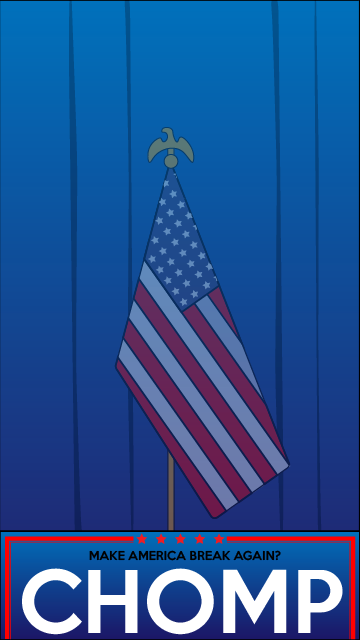
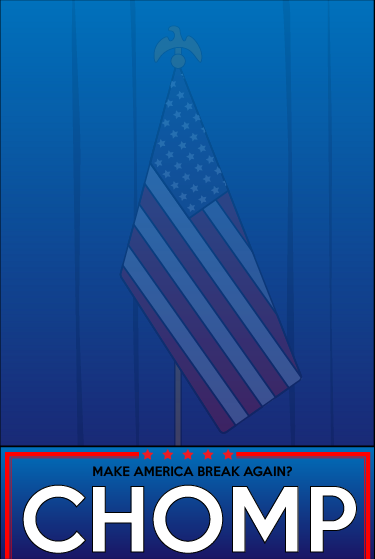
adding new dimensions to game

diff --git a/style.css b/style.css
@@ -6,7 +6,7 @@ html, body {
 .start-button {
   position: relative;
   left: 50%;
-  top: 80%;
+  top: 30em;
   transform: translateX(-50%);
   cursor: pointer;
   z-index: 3;
@@ -15,7 +15,7 @@ html, body {
 .score {
   position: absolute;
   font-family: monospace;
-  top: 65%;
+  top: 9em;
   left: 65%;
   z-index: 2;
   font-size: 3.5em;
@@ -74,8 +74,8 @@ html, body {
   position: absolute;
   left: 0;
   top: 0;
-  width: auto;
-  height: 100%;
+  width: 100%;
+  height: auto;
 }
 
 .back-canvas, .end-canvas {
@@ -84,34 +84,34 @@ html, body {
 
 @media screen and (min-width: 414px) {
   .score {
-    margin-left: 15%;
+    margin-left: 10%;
   }
 }
 
 @media screen and (max-width: 413px) {
   .start-button{
-    top: 80%;
+    top: 28em;
   }
   .score {
-    margin-left: 15%;
+    margin-left: 10%;
     top: 65%;
   }
 }
 @media screen and (max-width: 378px) {
   .score {
-    top: 65%;
+    top: 55%;
   }
 }
 @media screen and (max-width: 361px) {
   .score {
-    top: 65%;
+    top: 55%;
   }
 }
 @media screen and (max-width: 321px) {
   .start-button{
-    top: 70%;
+    top: 24em;
   }
   .score {
-    top: 65%;
+    top: 55%;
   }
 }

diff --git a/index.html b/index.html
@@ -13,10 +13,10 @@
         <div class='test'>
           <img id='start-button' class='start-button' src='assets/StartButton.png' onclick="start()" />
           <div id='score' class='score'></div>
-          <canvas id='start-canvas' class='start-canvas canvae' width='360' height='640'></canvas>
-          <canvas id='end-canvas' class='end-canvas canvae' width='360' height='640'></canvas>
-          <canvas id='back-canvas' class='back-canvas canvae' width='360' height='640'></canvas>
-          <canvas id='canvas' class='canvas canvae' width='360' height='640'></canvas>
+          <canvas id='start-canvas' class='start-canvas canvae' width='375' height='559'></canvas>
+          <canvas id='end-canvas' class='end-canvas canvae' width='375' height='559'></canvas>
+          <canvas id='back-canvas' class='back-canvas canvae' width='375' height='559'></canvas>
+          <canvas id='canvas' class='canvas canvae' width='375' height='559'></canvas>
           <div id='left' class='left mobile-button'></div>
           <div id='right' class='right mobile-button'></div>
         </div>

diff --git a/js/trump.js b/js/trump.js
@@ -4,9 +4,9 @@ var canvas = document.getElementById("canvas"),
     rotations = 0,
     continueAnimating = false,
     score = 0,
-    xRatio = canvas.scrollWidth / 360,
-    yRatio = canvas.scrollHeight / 640,
-    stageHeight = 110;
+    xRatio = canvas.scrollWidth / 375,
+    yRatio = canvas.scrollHeight / 559,
+    stageHeight = 112;
 
 var trumpImage = new Image(),
     trumpWidth = 112.5 * xRatio,
@@ -163,7 +163,7 @@ function sprite (options) {
       }
       that.context.font = "20px monospace";
       that.context.fillStyle = "black";
-      that.context.fillText("Score: " + score, 240, 20, 100);
+      that.context.fillText("Score: " + score, 240, 30, 100);
   };
 
   return that;
@@ -218,8 +218,8 @@ function resetDildo(dildo) {
 function moveDonaldRight(){
   keydown = true;
   trump.x += trump.speed;
-  if (trump.x + (trumpWidth) >= 360) {
-    trump.x = (360 - trumpWidth) ;
+  if (trump.x + (trumpWidth) >= 375) {
+    trump.x = (375 - trumpWidth) ;
   }
 }
 
